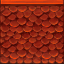
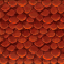
Ajout des texture de victoire et de défaite
+ adaptation des images a la fenetre
(elargie l'image de victoire / defaite pour la remplir)

diff --git a/views/gridView.py b/views/gridView.py
@@ -125,7 +125,7 @@ class GridView(QMainWindow):
         self.__labelStatut.setText("Félicitations ! Vous avez gagné en : " + str(self.__nbOfMovements) + " mouvements !")
         w = QWidget()
         w.setFixedSize(self.size().width(), self.size().height())
-        w.setStyleSheet("background-image: url(images/" + self.__theme + "/Bravo.png);")
+        w.setStyleSheet("border-image: url(images/"+self.__theme+"/Bravo.png) 0 0 0 0 stretch stretch;")
         self.__GridLayout.addWidget(w, 0, 0)
 
     def ecranDefaite(self):
@@ -133,7 +133,7 @@ class GridView(QMainWindow):
         self.__labelStatut.setText("Vous avez perdu ! Vous avez coincé une caisse !")
         w = QWidget()
         w.setFixedSize(self.size().width(), self.size().height())
-        w.setStyleSheet("background-image: url(images/" + self.__theme + "/Perdu.png);")
+        w.setStyleSheet("border-image: url(images/"+self.__theme+"/Perdu.png) 0 0 0 0 stretch stretch;")
         self.__GridLayout.addWidget(w, 0, 0)
 
 
